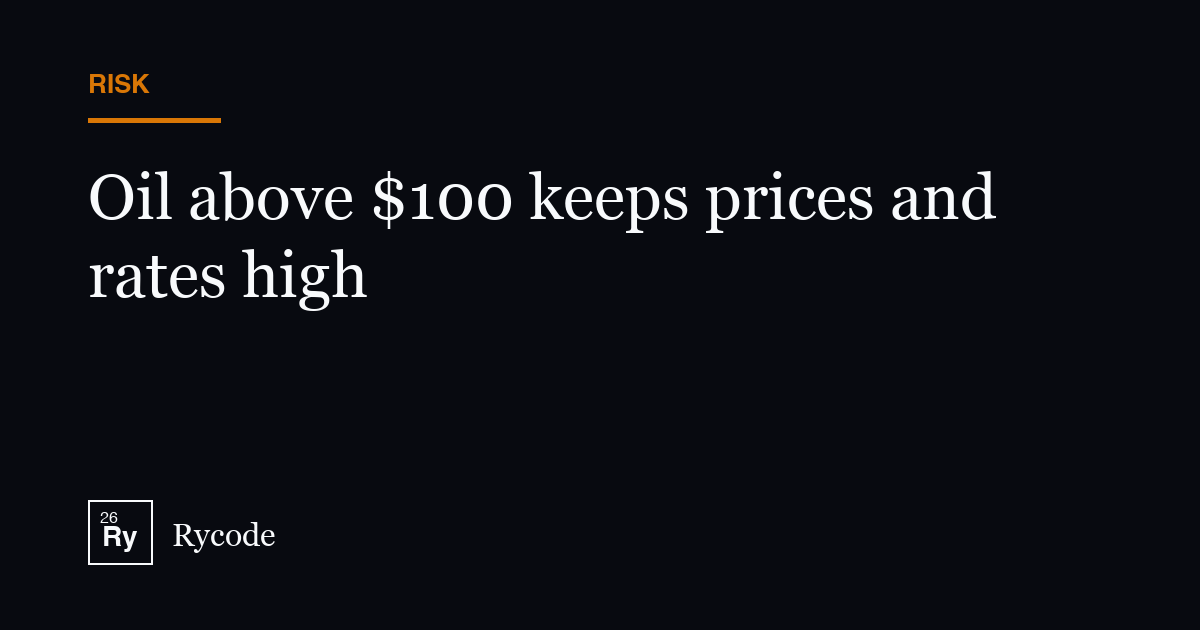
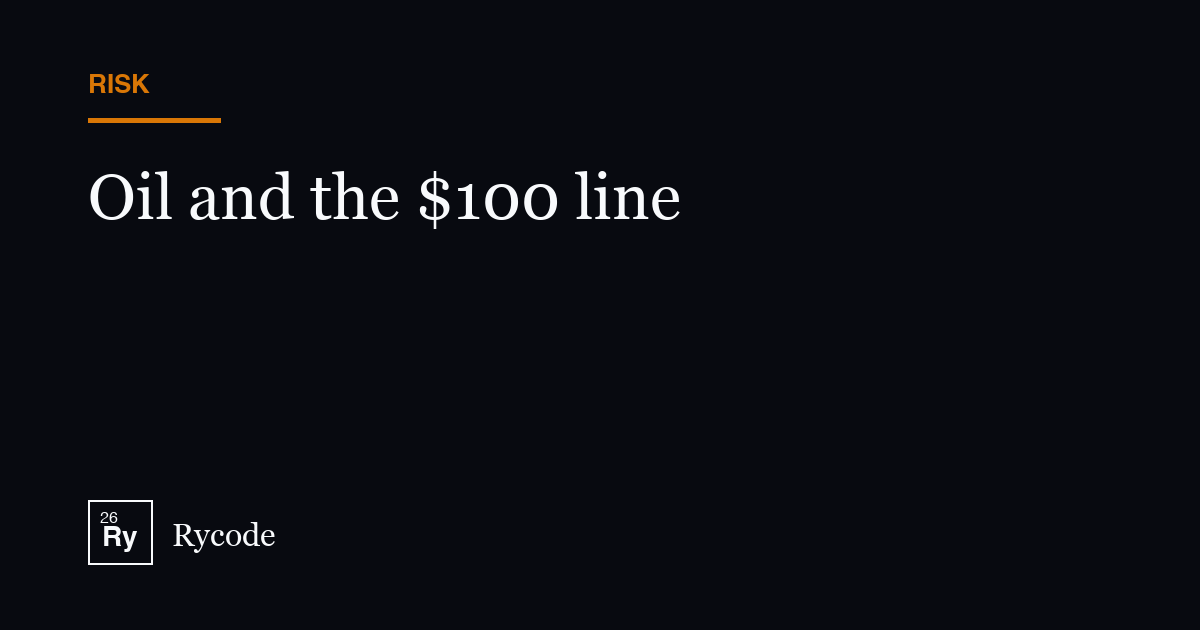
Retitle the oil brief "Oil and the $100 line"

Changed region(s): [[0.185, 0.2714, 0.8325, 0.3619], [0.0617, 0.3921, 0.3083, 0.5127]]

diff --git a/AGENTS.md b/AGENTS.md
@@ -73,7 +73,7 @@ Every page behind a `/risk/` watch-list row is a short brief. Model: `src/pages/
 - Systems in the header and on HOME opens https://systems.rycode.dev in a new tab. It is not a page on this site, and it is never the current-section highlight.
 - Do not add a Research door, an Insights door, or a `/research` landing. Old `/research` URLs 301. SaaS rows go under the “SaaS” heading on `/economics`. The SaaS, Treasury, and agents essays were pulled on 5 Oct 2026 and 301 to their doors; `/research/saaspocalypse` goes to `/economics/`. Digest rails load `/digest-rail.js`, a public file. Do not inline that binder: live CSP only allows scripts with `src` from this origin. Do not invent copy. Do not add a SaaS home door.
 - New Economics piece → `src/pages/economics/<slug>.astro` on the charcoal Economics paper (Newsreader title, italic dek, 1px rule, Inter headings, no cyan). Add a row on `/economics` only when it is published. Do not invent copy. SaaS pieces go in the SaaS section, not in the main list. Live: `/economics/still-1998-not-1999/`, `/economics/jobs-print-was-strong-mix-is-the-story/`. Source: `docs/economics/`. Do not create `/economics/people-who-use-ai-get-the-jobs/`.
-- New Risk analysis → `src/pages/risk/<slug>.astro` on the charcoal Risk digest (Layout `variant="risk"`, number-card right rail, Newsreader H1). Add one row under a named section on `src/pages/risk.astro` only when it is published. Sources for the pulled and replaced essays are in `docs/archive/<door>/`. Do not invent copy. Do not drop a long-wall draft. Do not use a hook, bell, or carabiner for the Risk mark. Do not create `/risk/emerging/`. Do not put Risk analyses on a separate glossary chassis. Live: four watch-list briefs, `/risk/when-force-majeure-hits-the-ai-build-out/` (AI build-out contagion), `/risk/six-percent-that-stays/` (The 30-year yield holds near 6%), and `/risk/when-the-spender-runs-the-printer/` (Debt refinancing), and `/risk/oil-and-the-100-line/` (Oil above $100 keeps prices and rates high; moved from `/economics/warsh-first-hike-oil-and-five-percent-ten-year/` on 5 Oct 2026, old URL 301s here). Old `/risk/panic-before-the-breach/` and the pulled Risk essays 301 to `/risk/`. A page behind a `/risk/` watch-list row is a brief in the locked format below, not a long essay. The A.I. home door is `public/landing/hub-brain.webp` (the supplied brain drawing, 40px box, `/ai/`). Do not redraw the Economics, Risk, or Systems marks.
+- New Risk analysis → `src/pages/risk/<slug>.astro` on the charcoal Risk digest (Layout `variant="risk"`, number-card right rail, Newsreader H1). Add one row under a named section on `src/pages/risk.astro` only when it is published. Sources for the pulled and replaced essays are in `docs/archive/<door>/`. Do not invent copy. Do not drop a long-wall draft. Do not use a hook, bell, or carabiner for the Risk mark. Do not create `/risk/emerging/`. Do not put Risk analyses on a separate glossary chassis. Live: four watch-list briefs, `/risk/when-force-majeure-hits-the-ai-build-out/` (AI build-out contagion), `/risk/six-percent-that-stays/` (The 30-year yield holds near 6%), and `/risk/when-the-spender-runs-the-printer/` (Debt refinancing), and `/risk/oil-and-the-100-line/` (Oil and the $100 line; moved from `/economics/warsh-first-hike-oil-and-five-percent-ten-year/` on 5 Oct 2026, old URL 301s here). Old `/risk/panic-before-the-breach/` and the pulled Risk essays 301 to `/risk/`. A page behind a `/risk/` watch-list row is a brief in the locked format below, not a long essay. The A.I. home door is `public/landing/hub-brain.webp` (the supplied brain drawing, 40px box, `/ai/`). Do not redraw the Economics, Risk, or Systems marks.
 - New Opinions piece → add a row to `src/data/opinions.json` (`href`, `title`, `dek`, `date`, `related`, optional `image`). The hub at `/opinions/` is a card grid; it stays empty until that array has rows. The piece page is `src/pages/opinions/[slug].astro` (`/opinions/{slug}/`) with an Also-on-this-site list from `related[]`. Register the same piece in `src/data/articles.json` (`section` `opinions`), `src/data/article-theses.json`, and the matching `articles` arrays in `src/data/concepts.json`. The concept-map check must pass. Do not invent copy. Do not add a fake row.
 - TODO(Scout): replace `public/landing/hub-opinions.webp` with a signed chat-bubble mark if the generated outline is off-weight versus `hub-risk.webp`.
 - Restore old work from git, then revamp the shell and UX. Keep the math. Do not add new product features on the first pass.

diff --git a/CONTEXT.md b/CONTEXT.md
@@ -20,7 +20,7 @@ Glossary for this repo. Use these words in conversation and in code names.
 
 **Economics.** Charcoal `#080a10` at `/economics`, same ground as home. Bar-chart PNG from `/landing/hub-economics.png`, Inter “Economics”. Square Ry, 1px hairline, then rows. No “Coming soon”. No cyan. Essays are Astro pages at `/economics/[slug]`, charcoal paper: Newsreader title, dek, Inter headings, digest rail when signed. Live rows, in order: `/economics/still-1998-not-1999/`, `/economics/jobs-print-was-strong-mix-is-the-story/`. The other long essays were pulled on 5 Oct 2026 (sources in `docs/archive/pages/economics/`; old URLs 301 to `/economics/`). Source: `docs/economics/`. Do not create `/economics/people-who-use-ai-get-the-jobs/`. Do not move SaaS exhibit files out of `public/research/exhibits/` unless asked.
 
-**Risk.** Charcoal `#080a10` at `/risk`, same ground as home. Warning-triangle PNG from `/landing/hub-risk.png`, Inter “Risk”. Square Ry, 1px hairline, named sections, charcoal topic chips, then rows. No cyan. No “Coming soon”. No hook, bell, or carabiner. Not a control-framework page, not L2. The watch list sits on top. Pages behind its rows are short briefs at `/risk/[slug]` (Backstory, Where we stand computed from the feeds, What we're watching, Sources; format in AGENTS.md, Brief format). Live under Emerging risks: `/risk/when-force-majeure-hits-the-ai-build-out/` (AI build-out contagion), `/risk/six-percent-that-stays/` (The 30-year yield holds near 6%), `/risk/when-the-spender-runs-the-printer/` (Debt refinancing), `/risk/oil-and-the-100-line/` (Oil above $100 keeps prices and rates high; the old `/economics/warsh-first-hike-oil-and-five-percent-ten-year/` URL 301s here). Old `/risk/panic-before-the-breach/` and the pulled Risk essays 301 to `/risk/`. Do not create `/risk/emerging/`. Sources for the pulled and replaced essays are in `docs/archive/<door>/`.
+**Risk.** Charcoal `#080a10` at `/risk`, same ground as home. Warning-triangle PNG from `/landing/hub-risk.png`, Inter “Risk”. Square Ry, 1px hairline, named sections, charcoal topic chips, then rows. No cyan. No “Coming soon”. No hook, bell, or carabiner. Not a control-framework page, not L2. The watch list sits on top. Pages behind its rows are short briefs at `/risk/[slug]` (Backstory, Where we stand computed from the feeds, What we're watching, Sources; format in AGENTS.md, Brief format). Live under Emerging risks: `/risk/when-force-majeure-hits-the-ai-build-out/` (AI build-out contagion), `/risk/six-percent-that-stays/` (The 30-year yield holds near 6%), `/risk/when-the-spender-runs-the-printer/` (Debt refinancing), `/risk/oil-and-the-100-line/` (Oil and the $100 line; the old `/economics/warsh-first-hike-oil-and-five-percent-ten-year/` URL 301s here). Old `/risk/panic-before-the-breach/` and the pulled Risk essays 301 to `/risk/`. Do not create `/risk/emerging/`. Sources for the pulled and replaced essays are in `docs/archive/<door>/`.
 
 **Piece.** One research item. A research row is a date, a Newsreader claim, and one-line dek.
 
